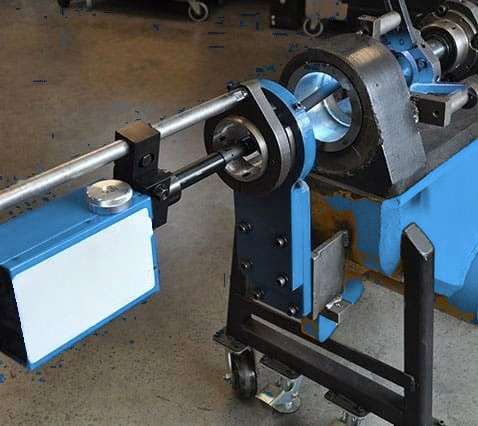
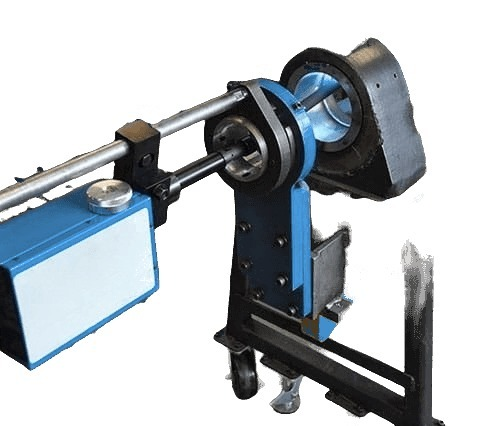
Update to 43+ years and remove backgrounds from rental images

diff --git a/about.html b/about.html
@@ -42,7 +42,7 @@
     <main class="max-w-6xl mx-auto px-6 py-16">
         <section class="text-center mb-16">
             <p class="text-xs font-bold text-insitools-blue uppercase tracking-widest mb-3">About INSITOOLS</p>
-            <h1 class="text-4xl md:text-5xl font-extrabold text-insitools-dark mb-4">Trusted Industrial Support Backed by 42+ Years of Experience</h1>
+            <h1 class="text-4xl md:text-5xl font-extrabold text-insitools-dark mb-4">Trusted Industrial Support Backed by 43+ Years of Experience</h1>
             <p class="text-gray-600 max-w-3xl mx-auto text-sm md:text-base leading-relaxed">INSITOOLS is built on the same trusted service values as Assurich Industries. We are committed to delivering reliable on-site machining, welding, and after-sales support to industries that demand performance, safety and continuity.</p>
         </section>
 
@@ -69,7 +69,7 @@
             </div>
             <div class="grid gap-4">
                 <div class="bg-white text-insitools-dark rounded-3xl p-6 shadow-sm">
-                    <h3 class="font-bold mb-2">42+ Years Experience</h3>
+                    <h3 class="font-bold mb-2">43+ Years Experience</h3>
                     <p class="text-sm text-gray-600">Deep industry knowledge and trusted delivery across ASEAN.</p>
                 </div>
                 <div class="bg-white text-insitools-dark rounded-3xl p-6 shadow-sm">
